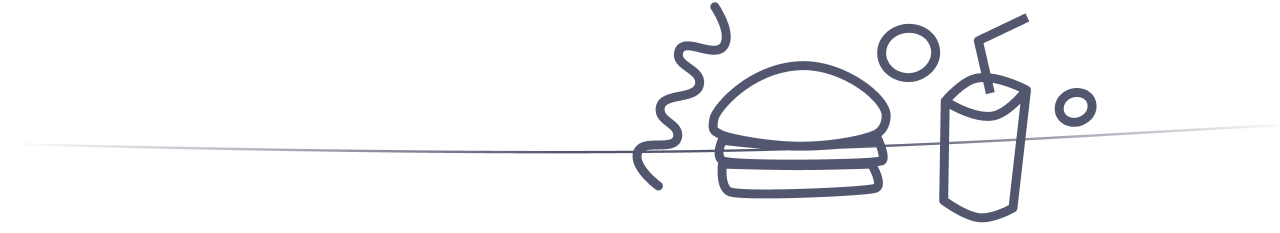
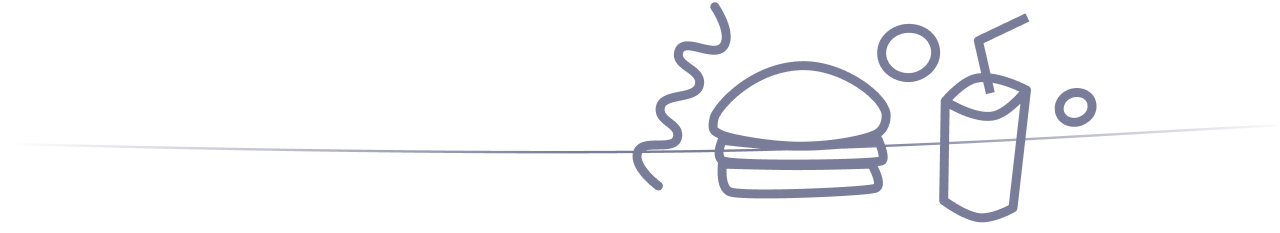
* lightens grey color * darkens book hover state in dark mode * removes dark-mode-specific selection style

Changed region(s): [[0.25, 0.0, 0.875, 0.9614]]

diff --git a/css/dark-mode.css b/css/dark-mode.css
@@ -16,17 +16,10 @@
         color: #8F93FF;
     }
     
-    nav li.active a { border-color: #d4d4d4; }
-
     main a:hover,
     nav li a:hover,
     footer a:hover {
         border-color: #8F93FF;
-    }
-    
-    ::selection, ::-moz-selection {
-        color: #333;
-        background: #8F93FF;
     }
 
     footer,
@@ -47,6 +40,10 @@
 
     header img:hover {
         filter: invert(55%) sepia(40%) saturate(708%) hue-rotate(200deg) brightness(102%) contrast(102%);
+    }
+
+    .book:hover {
+        box-shadow: 1px 1px 10px black;
     }
 
     .tooltip-wrapper .tooltip { background-color: black; }

diff --git a/css/main.css b/css/main.css
@@ -86,7 +86,7 @@ header img {
 }
 
 header img {
-    filter: invert(32%) sepia(23%) saturate(504%) hue-rotate(195deg) brightness(93%) contrast(84%);
+    filter: invert(51%) sepia(15%) saturate(564%) hue-rotate(195deg) brightness(95%) contrast(89%);
 }
 
 header img:hover {
@@ -110,7 +110,7 @@ nav li a {
 }
 
 nav li.active a {
-    border-bottom: 4px solid #53566F;
+    border-bottom: 4px solid #797D9A;
 }
 
 nav li a:hover {
